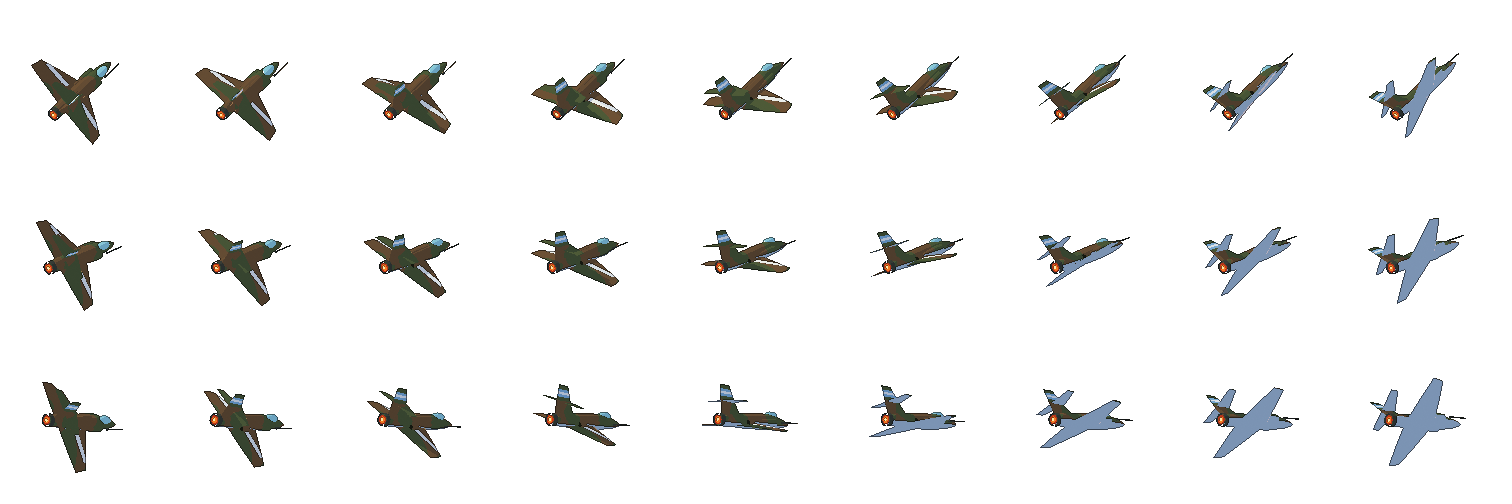
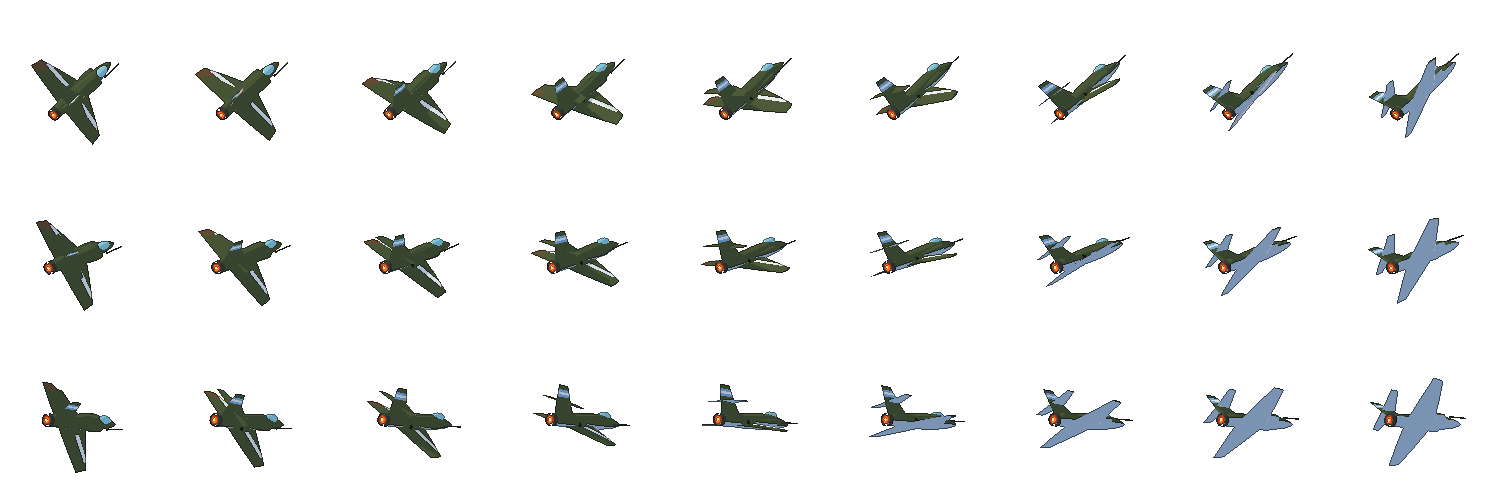
avion mas fluido y escuadron con variantes
- el sprite gira lo que le falta entre columna y columna (el alabeo se ve continuo), histeresis en las
  filas de cabeceo y fundido corto al cambiar de fila
- variantes de escuadron horneadas en Blender: 4 por celula (reparto y tono del camuflaje, semilla de
  las manchas, bandas amarillas en dos), para los numerales fuera del A-4
- los Fieles toman esos estilos y conservan su marca; las skins solo se usan en el A-4
- la semilla del camuflaje no hacia nada (la entrada W no se encuentra por clave en Blender 5)

diff --git a/src/render/plane.js b/src/render/plane.js
@@ -49,6 +49,16 @@ const AIM_PITCH = 5;    // cuanto sube/baja la mira FIJA con el cabeceo (unidade
 // avion se come la pantalla, bajarla; no hay que rehornear nada.
 export const PLANE_SCALE = 0.85;
 let boostSc = 1;   // factor animado del achique por turbo
+// EL PASO ENTRE POSES (autor, 8/10: "mas fluido"). La hoja trae 9 alabeos (uno cada 15°) y 3 cabeceos;
+// sin nada en el medio, el avion saltaba de pose en pose. Tres remiendos, ninguno toca la hoja:
+//   · GIRO RESIDUAL: entre columna y columna el sprite gira en 2D lo que le falta (±7,5° como mucho),
+//     asi el alabeo se ve continuo y el cambio de frame queda escondido adentro del giro.
+//   · HISTERESIS en las filas: se entra a trepada/picada pasado FILA_ENTRA y se sale recien bajo
+//     FILA_SALE — en el borde ya no titila entre dos poses.
+//   · FUNDIDO de fila: al cambiar de cabeceo, el frame viejo se apaga encima del nuevo en FILA_FUNDE s.
+const ALABEO_RAD = 1.05;                       // el alabeo a fondo que traen los frames (~60°, ver muzzles)
+const FILA_ENTRA = 0.36, FILA_SALE = 0.26, FILA_FUNDE = 0.11;
+let filaSost = 1, filaAnt = 1, filaCambioT = -1, filaPrevCuadro = 1;
 
 const BOB_Y  = 1.5;    // amplitud del bob vertical (px)
 const BOB_X  = 0.75;    // amplitud de la deriva horizontal (px) — desfasada del bob → flota en "8"
@@ -872,7 +882,7 @@ export function drawPlane(selPlane, viewMouse, camScale, ras, dz) {
   // parches (adentro del contexto del avion) y la estela de punta de ala (despues del restore, en
   // pixeles de mundo). Las tres tienen que leer LA MISMA tabla de anclas o se separan.
   // La pirueta empinada gana sobre el poder (ver la rama de dibujo), asi que no cuenta.
-  const skRas = ras && rosterActive() ? skinOf(pilotName(alMando(run))) : null;
+  const skRas = ras && rosterActive() ? skinOf(pilotName(alMando(run)), pl) : null;
   const rasHoja = !!(ras && useSheet && !run.mvSteep && (skRas ? skRas.sheet3Img : pl.sheet3Ok));
   const AN = rasHoja ? ANCLAS.ras : ANCLAS.base;
   // EL GIRO TOTAL DEL SPRITE, resuelto en UN SOLO LUGAR.
@@ -888,7 +898,15 @@ export function drawPlane(selPlane, viewMouse, camScale, ras, dz) {
   // que ser LA MISMA pose que el sprite dibuja, no una copia de la formula que pueda quedar vieja.
   const colPose = rolling ? (SHEET_NF - 1) / 2 : Math.round((1 - bank) / 2 * (SHEET_NF - 1));
   const pcPose = run.senalT > 0 && run.senalPitch ? run.senalPitch : Math.max(-1, Math.min(1, plane.pitch));
-  const rowPose = pcPose > 0.33 ? 0 : pcPose < -0.33 ? 2 : 1;
+  // la fila con HISTERESIS: para cambiar hay que pasar FILA_ENTRA; para volver a nivel, bajar de FILA_SALE
+  if (filaSost === 1) { if (pcPose > FILA_ENTRA) filaSost = 0; else if (pcPose < -FILA_ENTRA) filaSost = 2; }
+  else if (filaSost === 0 ? pcPose < FILA_SALE : pcPose > -FILA_SALE) filaSost = Math.abs(pcPose) > FILA_ENTRA ? (pcPose > 0 ? 0 : 2) : 1;
+  const rowPose = filaSost;
+  const ahoraS = performance.now() / 1000;
+  if (rowPose !== filaPrevCuadro) { filaAnt = filaPrevCuadro; filaCambioT = ahoraS; filaPrevCuadro = rowPose; }
+  const fundeFila = filaCambioT >= 0 ? 1 - (ahoraS - filaCambioT) / FILA_FUNDE : 0;   // 1 → 0
+  // lo que el alabeo pide mas alla de la columna elegida (±media columna), en radianes de pantalla
+  const resto = rolling ? 0 : (bank - (1 - 2 * colPose / (SHEET_NF - 1))) * ALABEO_RAD;
   const prRoll = rolling ? Math.min(1, run.mvT / MOVES.tonel.dur) : 0;   // 0→1 durante el tonel
   // EL SPRITE DEL PODER NO SE GIRA, Y SE PROBO AL REVES. Un rato existio aca una rotacion que
   // alineaba el avion con el punto de fuga del carril — geometricamente impecable: toda recta
@@ -898,8 +916,8 @@ export function drawPlane(selPlane, viewMouse, camScale, ras, dz) {
   // punta en el agua. Lo corrige la HOJA (cabeceo y alabeo compensados en el horneado), que es el
   // unico lugar donde se puede inclinar una cosa sin inclinar la otra.
   const spinTot = rolling ? run.mvRoll + hz
-    : run.mvRoll ? run.mvRoll + hz + wobT
-    : useSheet ? wobT
+    : run.mvRoll ? run.mvRoll + hz + wobT + (useSheet ? resto : 0)
+    : useSheet ? wobT + resto
     : bank * 0.42 + wobT;
   // + lo que la SEÑA pide mas alla de la hoja (la panza), + el giro SOLO DEL DIBUJO de una maniobra
   // (`mvGiro`: la diagonal del derrape), que el horizonte giratorio no se come como al `mvRoll`
@@ -937,7 +955,7 @@ export function drawPlane(selPlane, viewMouse, camScale, ras, dz) {
     // relevo te sube al avion del que sigue: el numeral avanza y la marca del ala CAMBIA sola.
     // Es la unica señal en pantalla de que ya no estas volando tu avion. Fuera de campaña no
     // hay roster y `sk` es null, asi que se usa la hoja generica de siempre.
-    const sk = rosterActive() ? skinOf(pilotName(alMando(run))) : null;
+    const sk = rosterActive() ? skinOf(pilotName(alMando(run)), pl) : null;
     let img = sk ? sk.sheetImg : pl.sheetImg;
     const hoja2 = sk ? sk.sheet2Img : (pl.sheet2Ok ? pl.sheet2Img : null);
     // LA HOJA DEL PODER RASANTE. Durante el poder la camara se corre 10 unidades al costado y el
@@ -994,6 +1012,14 @@ export function drawPlane(selPlane, viewMouse, camScale, ras, dz) {
     if (inp.fire && !run.overheat && run.fireT > 0.06 && !hoja4) fogonazos(spW, spH, AN.tips[rowPose][colPose]);
     drawGear(run.gear, 1);   // DEBAJO del sprite: la pata nace dentro del ala y solo se ve lo que asoma
     ctx.drawImage(img, sx4, sy4, FW4, FH4, -dW / 2, -dH / 2, dW, dH);
+    // EL FUNDIDO DE FILA: el cabeceo de recien se apaga ENCIMA del nuevo (solo entre filas de la
+    // misma hoja; las poses de pirueta y la cobra cambian de hoja y ahi manda la maniobra)
+    if (fundeFila > 0 && !hoja4 && row === rowPose && filaAnt !== row) {
+      const a0 = ctx.globalAlpha;
+      ctx.globalAlpha = a0 * fundeFila;
+      ctx.drawImage(img, sx4, filaAnt * FH4, FW4, FH4, -dW / 2, -dH / 2, dW, dH);
+      ctx.globalAlpha = a0;
+    }
     drawBorde(ctx, img, sx4, sy4, FW4, FH4, -dW / 2, -dH / 2, dW, dH);   // a contraluz (render/borde.js)
     // LA CARGA, encima del avion y en el MISMO recorte: cada capa esta horneada con la camara y la
     // pose de la hoja que se esta dibujando, y el avion ya le recorto de fabrica lo que el ala le

diff --git a/src/render/squad.js b/src/render/squad.js
@@ -29,12 +29,15 @@ import { pose } from '../core/senales.js';
  *  plano (al CONTROL LIBRE: aceleran, crecen y pasan al costado de la camara — "te siguen ahi
  *  atras aunque no los veas"). Fuera de esos dos momentos NO se dibuja nunca: en vuelo seria
  *  un costo de render que no aporta y taparia el juego. */
-/** La hoja de sprite que le toca al numeral `idx`: la VARIANTE de ese Fiel si existe, o la hoja
- *  generica del avion elegido. Devolver la generica no es un caso de error — fuera de campaña no
- *  hay roster, y el build web puede descartar las variantes por el limite de tamaño. */
+/** La hoja de sprite que le toca al numeral `idx`: con roster (campaña y pruebas) y en el A-4, la
+ *  SKIN de ese Fiel; si no, la VARIANTE de escuadron de ese numeral (data/planes.js, `variantes`: el
+ *  numeral 0 vuela la de siempre). Devolver la generica no es un caso de error — el build web puede descartar las
+ *  skins y las variantes por el limite de tamaño. */
 function hojaDe(pl, idx) {
-  const sk = rosterActive() ? skinOf(pilotName(idx)) : null;
+  const sk = rosterActive() ? skinOf(pilotName(idx), pl) : null;
   if (sk) return sk.sheetImg;
+  const v = !sk && idx > 0 && pl.variantes ? pl.variantes[(idx - 1) % pl.variantes.length] : null;
+  if (v && v.complete && v.naturalWidth) return v;
   return pl.sheetOk ? pl.sheetImg : null;
 }
 

diff --git a/src/data/planes.js b/src/data/planes.js
@@ -108,5 +108,11 @@ PLANES.forEach(pl => {
     for (const nom of CAPAS_CARGA) {
       pl.capas[nom] = ['', '2', '3', '4'].map(suf => { const im = new Image(); im.src = dir + nom + suf + '.png'; return im; });
     }
+    // LAS VARIANTES DEL ESCUADRON (autor, 8/10: "todos tienen el mismo avion — deberian tener
+    // variantes"): cuatro hojas base por avion, una por numeral — otro reparto y tono del camuflaje,
+    // y dos con las bandas amarillas de identificacion (tools/blender/modelos.py, `_variantes`).
+    // Las dibuja render/squad.js para los numerales fuera de campaña; si no cargan (build web, horno
+    // viejo) los numerales vuelan con la hoja de siempre.
+    pl.variantes = HORNO_VIEJO ? [] : [1, 2, 3, 4].map(n => { const im = new Image(); im.src = dir + 'variante' + n + '.png'; return im; });
   }
 });

diff --git a/src/data/skins.js b/src/data/skins.js
@@ -49,8 +49,10 @@ for (const nombre in ARCHIVO) {
 const lista = im => im.complete && im.naturalWidth > 0;
 
 /** La skin de `nombre` (TERO, PUMA…) o null si no hay. `null` es una respuesta valida: el que
- *  dibuja cae a la hoja generica. Nunca tira. */
-export function skinOf(nombre) {
+ *  dibuja cae a la hoja generica. Nunca tira. Con `pl` (el avion que se esta dibujando), solo si es
+ *  el A-4: las skins son de esa celula, y un Dagger de las pruebas no puede volar con chapa de A-4. */
+export function skinOf(nombre, pl) {
+  if (pl && !/a4-skyhawk\//.test(pl.sheet || '')) return null;
   const s = cache[nombre];
   if (!s || !lista(s.img)) return null;
   return { sheetImg: s.img, sheet2Img: lista(s.img2) ? s.img2 : null,

diff --git a/tools/blender/modelos.py b/tools/blender/modelos.py
@@ -265,7 +265,13 @@ def mat_pintura(K, nombre, P, bandera=None):
             else:
                 nz = N.new('ShaderNodeTexNoise'); nz.inputs['Scale'].default_value = Q.get('escala', 0.32)
                 nz.inputs['Detail'].default_value = 1.2; nz.inputs['Roughness'].default_value = 0.45
-                if 'W' in nz.inputs: nz.noise_dimensions = '4D'; nz.inputs['W'].default_value = Q.get('semilla', 0.0)
+                # la SEMILLA mueve el dibujo por la 4ta dimension del ruido. Solo si la ficha la pide: las
+                # celulas de siempre siguen en 3D y no cambian. (En Blender 5 la entrada W no aparece por
+                # clave —`'W' in nz.inputs`, `.get('W')`— aunque exista: se la busca por nombre)
+                if Q.get('semilla') is not None:
+                    nz.noise_dimensions = '4D'
+                    w = next((i for i in nz.inputs if i.name == 'W'), None)
+                    if w is not None: w.default_value = Q['semilla']
                 L.new(tc.outputs['Object'], nz.inputs['Vector'])
                 rp = N.new('ShaderNodeValToRGB'); rp.color_ramp.interpolation = 'CONSTANT'
                 e = rp.color_ramp.elements
@@ -485,6 +491,54 @@ FICHAS = {
     'skin_vasco': _con_pintura(A4, arriba=['#7d6449', '#616d51'], panza='#bed0de'),
 }
 FICHAS['a4q']['carga'] = dict(A4['carga'], tanque='#dfe3e6')
+
+# LAS VARIANTES DEL ESCUADRON (autor, 8/10: "no veo variedad de aviones del escuadron, todos tienen el
+# mismo avion — deberian tener variantes"). Cada celula trae CUATRO, una por numeral (la formacion es
+# de cinco: el lider vuela la hoja de siempre). A la distancia de la formacion la marca chica de un ala
+# no se lee; lo que SI se lee es el DIBUJO del camuflaje (manchas grandes) y el TONO de la chapa. Asi
+# que cada variante cambia las tres cosas que sobreviven a 84 px:
+#   · la SEMILLA del ruido del camuflaje: otras manchas en otro lugar — cada avion se pintaba a mano
+#   · el REPARTO del camuflaje (`corte`): uno mas marron, otro mas verde. Desde la cola el ala se ve
+#     escorzada y la semilla sola casi no se nota; el color que DOMINA si
+#   · el TONO: uno lavado por el sol y la sal, uno recien repintado (mas oscuro)
+#   · las BANDAS AMARILLAS de identificacion en las alas, en dos de los cuatro (ver
+#     docs/historia/PREGUNTAS_HISTORICAS.md: que aviones las llevaban y desde cuando)
+# Solo la vista BASE: los numerales se dibujan con la hoja base (render/squad.js). Fuera de campaña;
+# en campaña cada numeral es un Fiel y lleva su skin (arriba).
+AMARILLO_ID = '#d9b03a'
+
+def _tono(hexs, f):
+    """`f` > 0 aclara y destiñe hacia un gris calido (lavado); `f` < 0 oscurece (repintado)."""
+    c = [int(hexs[i:i + 2], 16) for i in (1, 3, 5)]
+    if f >= 0: c = [v + (o - v) * f for v, o in zip(c, (0xb8, 0xb4, 0xa6))]
+    else: c = [v * (1 + f) for v in c]
+    return '#%02x%02x%02x' % tuple(max(0, min(255, round(v))) for v in c)
+
+def _variantes(base):
+    P = base['pintura']
+    envergadura = max(e[0] for e in base['ala'])
+    banda = dict(x=(0.56 * envergadura, 0.70 * envergadura), color=AMARILLO_ID)
+    marcas = list(P.get('marcas', []))
+    corte = P.get('corte', 0.5)
+    def v(semilla, tono=0.0, bandas=False, reparto=0.0):
+        return _con_pintura(base, semilla=semilla, corte=corte + reparto, arriba=[_tono(c, tono) for c in P['arriba']],
+                            panza=_tono(P['panza'], tono * 0.5), marcas=marcas + ([banda] if bandas else []))
+    return [v(1.9, reparto=-0.16), v(3.7, 0.26), v(5.3, bandas=True, reparto=0.16), v(7.1, -0.18, bandas=True)]
+
+for _clave in ('sky', 'a4q', 'dagger', 'mirage', 'supere', 'pampa'):
+    for _n, _f in enumerate(_variantes(FICHAS[_clave]), 1):
+        FICHAS['var_%s_%d' % (_clave, _n)] = _f
+
+# …Y LOS FIELES TAMBIEN (8/10). En campaña y en las pruebas los numerales son los Fieles, y su skin
+# era la misma chapa con una marquita en el ala: cinco aviones iguales a la distancia de la
+# formacion. Cada uno toma el reparto/tono/bandas de una variante y CONSERVA su marca. TERO, el
+# que arranca de lider, queda con el camuflaje de siempre; VASCO conserva su camuflaje lavado.
+_VAR_A4 = _variantes(A4)
+for _nom, _n in (('puma', 1), ('gitano', 3), ('pichon', 4)):
+    _p = dict(_VAR_A4[_n - 1]['pintura'])
+    _p['marcas'] = MARCAS[_nom] + [m for m in _p['marcas'] if m['color'] == AMARILLO_ID]
+    FICHAS['skin_' + _nom] = dict(A4, pintura=_p)
+FICHAS['skin_vasco'] = _con_pintura(A4, arriba=['#7d6449', '#616d51'], panza='#bed0de', semilla=3.7)
 
 def construir(clave, T, K):
     return jet(T, K, FICHAS[clave])

diff --git a/tools/blender/armar_juego.py b/tools/blender/armar_juego.py
@@ -34,6 +34,17 @@ DESTINO = {
     'skin_pichon': ('a4-skyhawk', 'skin_pichon'),
 }
 CELULAS = ('sky', 'a4q', 'dagger', 'supere', 'pampa', 'mirage')
+# LAS VARIANTES DEL ESCUADRON (modelos.py, 8/10): var_<celula>_<n> -> <carpeta>/variante<n>.png. Solo
+# la vista base (los numerales se dibujan con esa) y sin capas de carga: la carga es la misma celula.
+for _c in CELULAS:
+    for _n in range(1, 5):
+        DESTINO['var_%s_%d' % (_c, _n)] = (DESTINO[_c][0], 'variante%d' % _n)
+SOLO_BASE = lambda clave: clave.startswith('var_')
+# `CLAVES=var_sky_1,var_sky_2 .venv-art/bin/python3 armar_juego.py`: arma SOLO esas claves (y mide
+# las anclas solo si entre ellas esta `sky`)
+if os.environ.get('CLAVES'):
+    _q = os.environ['CLAVES'].split(',')
+    DESTINO = {k: v for k, v in DESTINO.items() if k in _q}
 CAPAS = ('tanques_ala', 'bombas_ala', 'tanque_centro', 'bomba_centro')
 VISTAS = {  # vista -> (filas, lado del cuadro, sufijo, simetrizar)
     'base': (3, 84, '', True), 'empinada': (2, 84, '2', True), 'ras': (3, 168, '3', False),
@@ -160,6 +171,7 @@ if __name__ == '__main__':
     for clave, (carpeta, base) in DESTINO.items():
         dest = os.path.join(PLANES, carpeta)
         for vista, (filas, fw, suf, sim) in VISTAS.items():
+            if SOLO_BASE(clave) and vista != 'base': continue
             h = hoja(os.path.join(OUT, clave, vista), filas, fw, sim)
             con_contorno(h, filas, fw).save(os.path.join(dest, '%s%s.png' % (base, suf)))
             if clave in CELULAS:
@@ -170,5 +182,6 @@ if __name__ == '__main__':
                 tips = json.load(open(os.path.join(OUT, clave, vista, 'tips.json')))['tips']
                 medidas[vista] = anclas(h, fw, filas, tips)
         print('OK', clave)
+    if 'sky' not in DESTINO: sys.exit(0)            # no se re-midio nada: las anclas quedan como estan
     escribir_anclas(medidas['base'], medidas['ras'], medidas.get('cobra'))
     print('ANCLAS -> src/data/anclas_horno.js  (base alto %s · ras alto %s)' % (medidas['base']['alto'], medidas['ras']['alto']))
